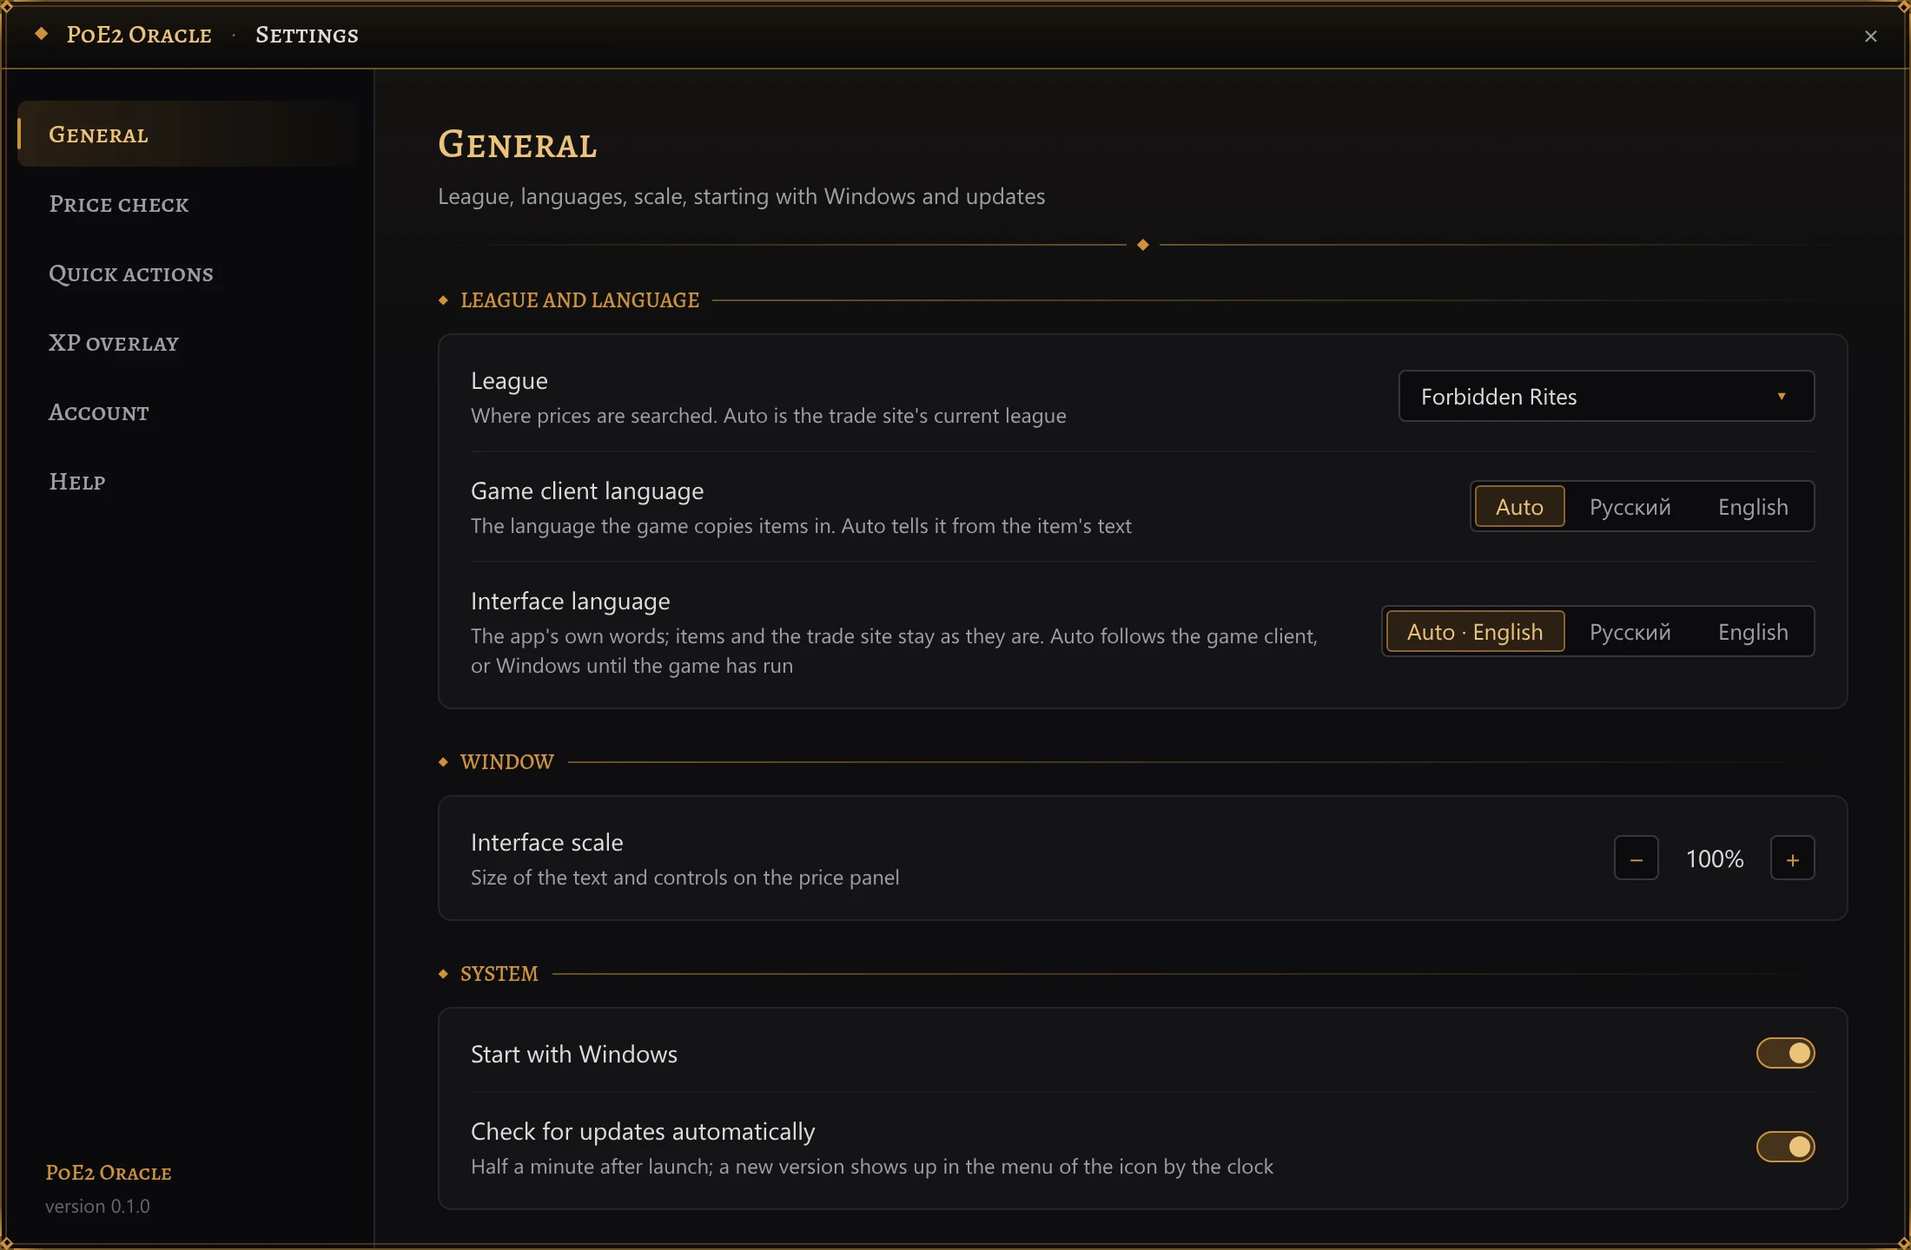
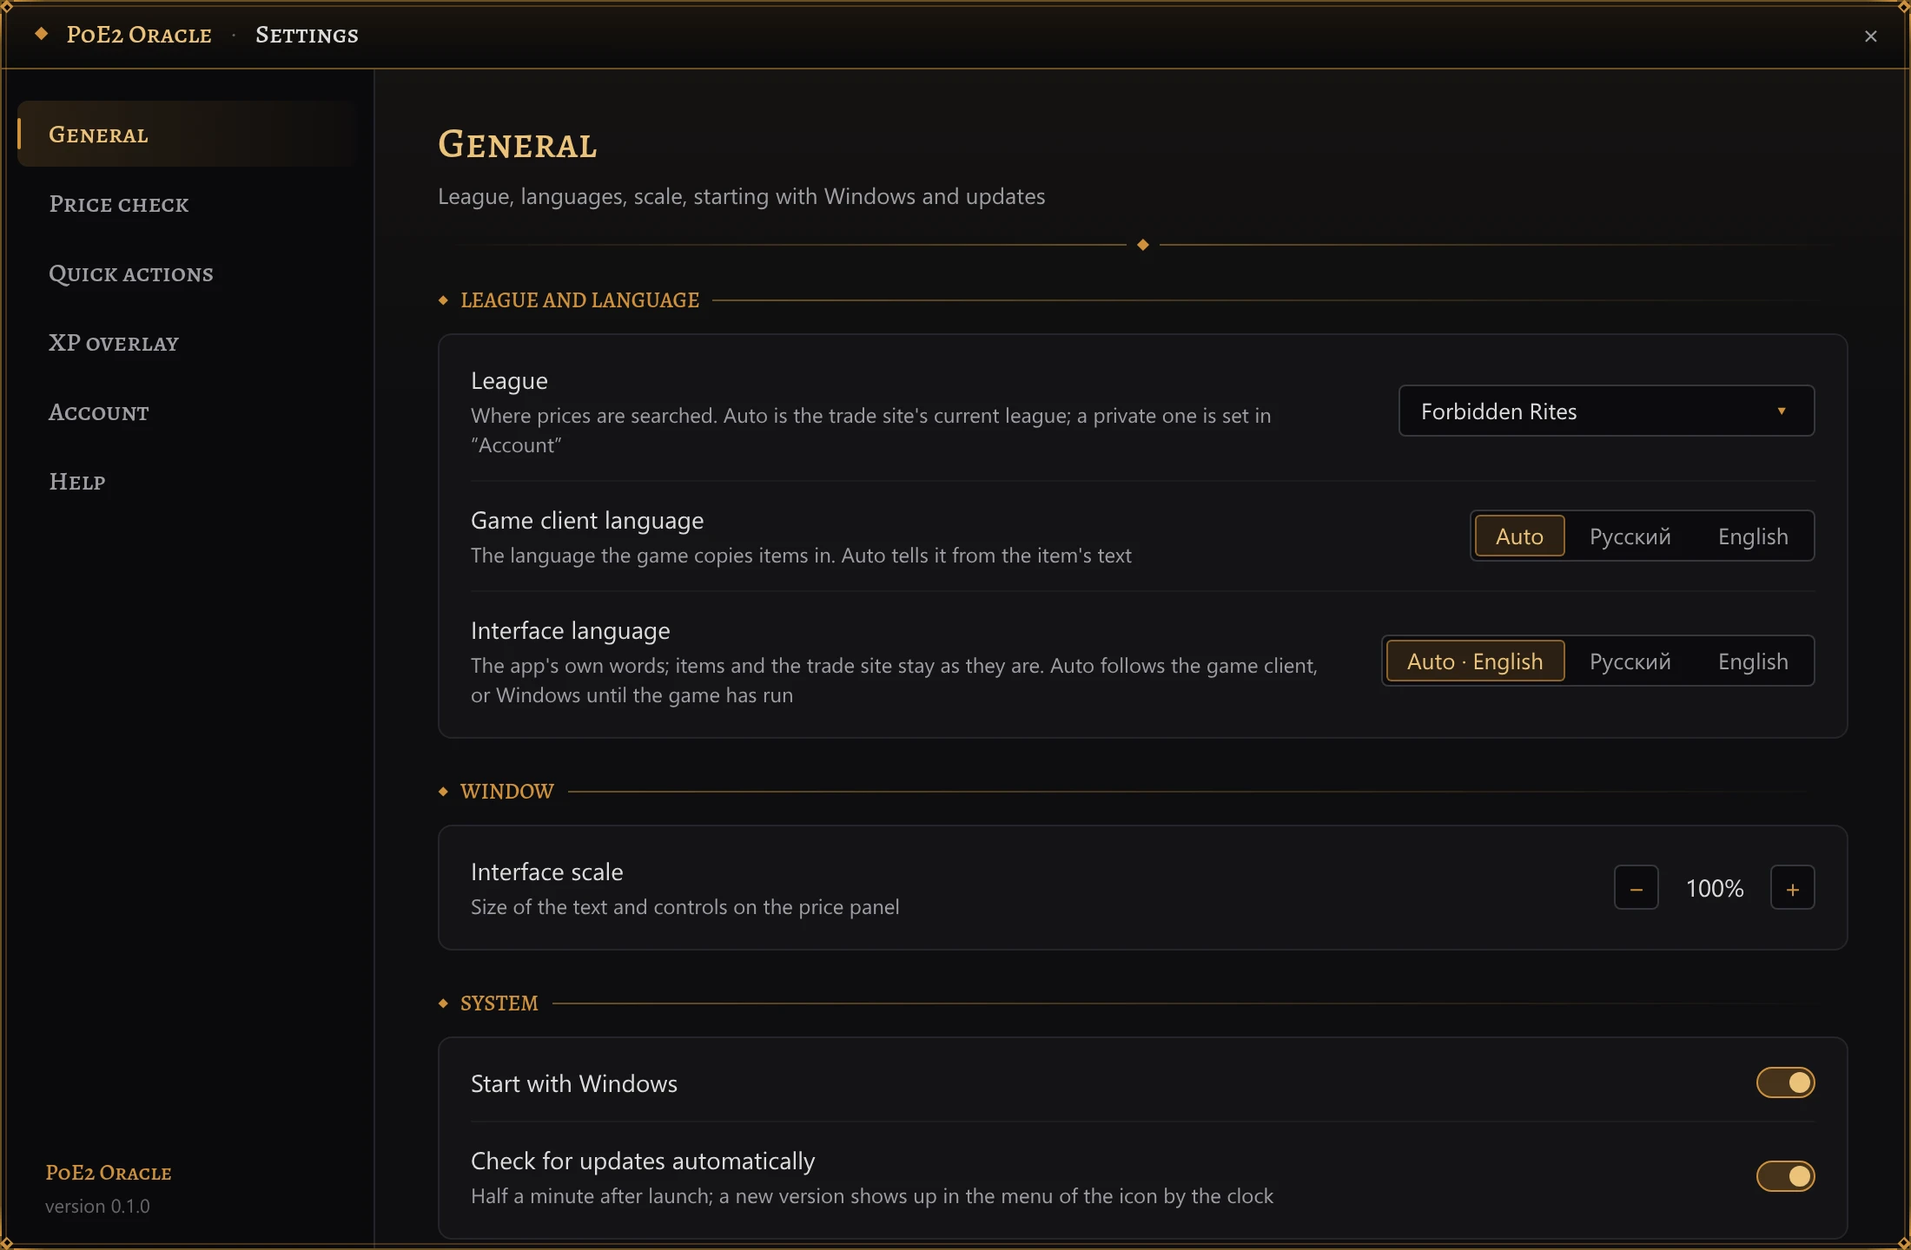
The league menus keep the private league after another pick
This morning the owner went from his private league to Forbidden Rites and back twice. The menus
offered a typed league only while it was the one searched, so going back meant opening the
settings and typing 'HC FRites League by Cardiff (PL86503)' again (16 seconds at 05:50).

Settings::private_league remembers the private league typed last; a file from before takes it
from its typed league. league_chip::menu offers it, in the panel's league chip and in General,
while another league is searched too: back is one click. The Account field shows the remembered
name and acts only on an edit: a new name is remembered and searched, an empty box forgets it
(and goes back to Auto if it was searched); a pick from General's menu drops text typed there
and not taken. Its note says so, and General's league note says where a private league is set
(the drawn settings picture follows). Guide (EN/RU) updated.

diff --git a/crates/poe2-oracle/src/league_chip.rs b/crates/poe2-oracle/src/league_chip.rs
@@ -29,11 +29,13 @@ pub fn chip_label(choice: &LeagueChoice, league: &str, names: &[League]) -> Stri
 }
 
 /// The menu's choices, each with its label, as the settings window offers them: «Авто · » with the
-/// current league, every league `listed` (the trade site's ids, current first), then `current`
-/// itself when it is neither -- a picked league the site no longer lists, or a typed one. Leagues
-/// are named in `names`, as on the chip.
+/// current league, every league `listed` (the trade site's ids, current first), a picked league
+/// the site no longer lists while it's `current`, then the private league `private` -- the one
+/// typed in last, still on offer while another league is searched (and a typed one `current`
+/// names, should the two differ). Leagues are named in `names`, as on the chip.
 pub fn menu(
     current: &LeagueChoice,
+    private: &str,
     listed: &[String],
     names: &[League],
 ) -> Vec<(LeagueChoice, String)> {
@@ -41,14 +43,23 @@ pub fn menu(
         Some(id) => tr!("Auto · {league}", league = league_name(id, names)),
         None => tr!("Auto").to_owned(),
     };
-    let unlisted = match current {
+    let ended = match current {
         LeagueChoice::Named(id) if !listed.contains(id) => Some((current.clone(), id.clone())),
-        LeagueChoice::Custom(name) => Some((
-            current.clone(),
-            tr!("Private league · {league}", league = name),
-        )),
-        LeagueChoice::Auto | LeagueChoice::Named(_) => None,
+        LeagueChoice::Auto | LeagueChoice::Named(_) | LeagueChoice::Custom(_) => None,
     };
+    let typed = match current {
+        LeagueChoice::Custom(name) if name != private => Some(name.as_str()),
+        LeagueChoice::Auto | LeagueChoice::Named(_) | LeagueChoice::Custom(_) => None,
+    };
+    let privates = typed
+        .into_iter()
+        .chain(Some(private).filter(|name| !name.is_empty()))
+        .map(|name| {
+            (
+                LeagueChoice::Custom(name.to_owned()),
+                tr!("Private league · {league}", league = name),
+            )
+        });
     std::iter::once((LeagueChoice::Auto, auto))
         .chain(listed.iter().map(|id| {
             (
@@ -56,7 +67,8 @@ pub fn menu(
                 league_name(id, names).to_owned(),
             )
         }))
-        .chain(unlisted)
+        .chain(ended)
+        .chain(privates)
         .collect()
 }
 
@@ -182,7 +194,7 @@ mod tests {
         let labels = |choices: Vec<(LeagueChoice, String)>| -> Vec<String> {
             choices.into_iter().map(|(_, label)| label).collect()
         };
-        let choices = menu(&named("Standard"), &listed(), &russian());
+        let choices = menu(&named("Standard"), "", &listed(), &russian());
         assert_eq!(
             choices.iter().map(|(choice, _)| choice).collect::<Vec<_>>(),
             [
@@ -204,7 +216,7 @@ mod tests {
             ]
         );
         assert_eq!(
-            labels(menu(&LeagueChoice::Auto, &listed(), &international())),
+            labels(menu(&LeagueChoice::Auto, "", &listed(), &international())),
             [
                 "Авто · Forbidden Rites",
                 "Forbidden Rites",
@@ -216,30 +228,33 @@ mod tests {
     }
 
     #[test]
-    fn the_menu_keeps_a_choice_the_site_does_not_list() {
-        // A typed private league is offered while it is the choice -- the only place its name is
-        // kept.
-        let typed = LeagueChoice::Custom("My League (PL12345)".to_owned());
+    fn the_menu_keeps_choices_the_site_does_not_list() {
+        // The private league typed last is offered while it's searched, and after the player
+        // picked another league: switching back is one click.
+        let name = "My League (PL12345)";
+        let typed = LeagueChoice::Custom(name.to_owned());
+        let offered = Some(&(typed.clone(), "Своя лига · My League (PL12345)".to_owned()));
+        assert_eq!(menu(&typed, name, &listed(), &russian()).last(), offered);
+        let aldur = named("Runes of Aldur");
+        assert_eq!(menu(&aldur, name, &listed(), &russian()).last(), offered);
         assert_eq!(
-            menu(&typed, &listed(), &russian()).last(),
-            Some(&(typed.clone(), "Своя лига · My League (PL12345)".to_owned()))
+            menu(&aldur, name, &listed(), &russian()).len(),
+            listed().len() + 2
         );
         assert!(
-            !menu(&LeagueChoice::Auto, &listed(), &russian())
+            !menu(&LeagueChoice::Auto, "", &listed(), &russian())
                 .iter()
                 .any(|(choice, _)| matches!(choice, LeagueChoice::Custom(_))),
             "no typed league to offer"
         );
-        // A picked league that has ended stays on offer, by its id.
+        // A picked league that has ended stays on offer, by its id, before the private one.
         let ended = named("Dawn of the Hunt");
+        let choices = menu(&ended, name, &listed(), &russian());
         assert_eq!(
-            menu(&ended, &listed(), &russian()).last(),
-            Some(&(ended.clone(), "Dawn of the Hunt".to_owned()))
+            choices[choices.len() - 2],
+            (ended.clone(), "Dawn of the Hunt".to_owned())
         );
-        assert_eq!(
-            menu(&ended, &listed(), &russian()).len(),
-            listed().len() + 2
-        );
+        assert_eq!(choices.last(), offered);
     }
 
     #[test]
@@ -250,7 +265,7 @@ mod tests {
                 "Auto · Forbidden Rites"
             );
             let typed = LeagueChoice::Custom("My League (PL12345)".to_owned());
-            let labels: Vec<String> = menu(&typed, &listed(), &international())
+            let labels: Vec<String> = menu(&typed, "", &listed(), &international())
                 .into_iter()
                 .map(|(_, label)| label)
                 .collect();
@@ -259,7 +274,7 @@ mod tests {
                 labels.last().unwrap(),
                 "Private league · My League (PL12345)"
             );
-            assert_eq!(menu(&typed, &[], &[])[0].1, "Auto");
+            assert_eq!(menu(&typed, "", &[], &[])[0].1, "Auto");
         });
     }
 

diff --git a/crates/poe2-oracle/src/ui/settings_view.rs b/crates/poe2-oracle/src/ui/settings_view.rs
@@ -252,7 +252,7 @@ impl SettingsView {
         window: &mut Window,
         cx: &mut Context<Self>,
     ) -> Self {
-        let (actions, league) = {
+        let (actions, private_league) = {
             let settings = &app.read(cx).settings;
             (
                 settings
@@ -260,17 +260,13 @@ impl SettingsView {
                     .iter()
                     .map(ActionDraft::saved)
                     .collect::<Vec<_>>(),
-                settings.league.clone(),
+                settings.private_league.clone(),
             )
         };
         let actions = actions
             .into_iter()
             .map(|draft| Self::action_row(draft, window, cx))
             .collect();
-        let private_league = match league {
-            LeagueChoice::Custom(name) => name,
-            LeagueChoice::Auto | LeagueChoice::Named(_) => String::new(),
-        };
         // A league name as the trade site writes one: the same in every interface language.
         let league_field =
             cx.new(|cx| TextField::new(private_league, || "My League (PL12345)", window, cx));
@@ -472,29 +468,36 @@ impl SettingsView {
         cx.notify();
     }
 
-    /// Takes the private league's field as it reads: a name makes it the league searched;
-    /// emptied, searches go back to «Авто» -- when it was the league searched.
+    /// Takes the private league's field as it reads, once the player changed it: a name is
+    /// remembered and becomes the league searched; emptied, the private league is forgotten and
+    /// searches go back to «Авто» -- when it was the league searched.
     fn apply_private_league(&mut self, cx: &mut Context<Self>) {
         let typed = self.league_field.read(cx).text().trim().to_owned();
-        let league = match (typed.is_empty(), &self.app.read(cx).settings.league) {
-            (false, _) => LeagueChoice::Custom(typed),
-            (true, LeagueChoice::Custom(_)) => LeagueChoice::Auto,
-            (true, LeagueChoice::Auto | LeagueChoice::Named(_)) => return,
-        };
-        self.change(cx, |settings| settings.league = league);
+        let settings = &self.app.read(cx).settings;
+        if typed == settings.private_league {
+            return;
+        }
+        let searched = matches!(settings.league, LeagueChoice::Custom(_));
+        self.change(cx, |settings| {
+            if typed.is_empty() {
+                if searched {
+                    settings.league = LeagueChoice::Auto;
+                }
+            } else {
+                settings.league = LeagueChoice::Custom(typed.clone());
+            }
+            settings.private_league = typed;
+        });
     }
 
-    /// A league picked in Общие's menu. The private league's field shows the league searched
-    /// only while it is the private one.
+    /// A league picked in Общие's menu. The private league's field goes back to the name
+    /// remembered, dropping what was typed there and not taken yet: the pick is what counts.
     fn choose_league(&mut self, choice: LeagueChoice, cx: &mut Context<Self>) {
         self.league_menu = false;
-        let private_league = match &choice {
-            LeagueChoice::Custom(name) => name.clone(),
-            LeagueChoice::Auto | LeagueChoice::Named(_) => String::new(),
-        };
+        self.change(cx, |settings| settings.league = choice);
+        let private_league = self.app.read(cx).settings.private_league.clone();
         self.league_field
             .update(cx, |field, cx| field.set_text(private_league, cx));
-        self.change(cx, |settings| settings.league = choice);
         cx.notify();
     }
 
@@ -1282,7 +1285,12 @@ impl SettingsView {
     fn render_league(&self, settings: &Settings, cx: &Context<Self>) -> AnyElement {
         let app = self.app.read(cx);
         let listed = app.leagues();
-        let options = league_chip::menu(&settings.league, listed, app.league_names());
+        let options = league_chip::menu(
+            &settings.league,
+            &settings.private_league,
+            listed,
+            app.league_names(),
+        );
         let picked = options
             .iter()
             .position(|(choice, _)| *choice == settings.league)
@@ -1733,8 +1741,9 @@ impl SettingsView {
                     [
                         Some(note(
                             tr!(
-                                "As the trade site writes it, brackets included — searches go \
-                                 there. An empty box brings back “Auto”"
+                                "As the trade site writes it, brackets included. Enter makes it the \
+                                 league searched, and the league menus keep it; an empty box \
+                                 forgets it"
                             ),
                             TEXT_DIM,
                         )),

diff --git a/crates/poe2-oracle/src/settings.rs b/crates/poe2-oracle/src/settings.rs
@@ -49,6 +49,10 @@ pub struct Settings {
     /// Which league searches run in.
     #[serde(deserialize_with = "or_default")]
     pub league: LeagueChoice,
+    /// The private league the player typed in last (`My League (PL12345)`), kept while they
+    /// search another league so the league menus go on offering it; empty for none. A typed
+    /// league searched is always this one.
+    pub private_league: String,
     /// The game client's language: the language copied items arrive in.
     #[serde(deserialize_with = "or_default")]
     pub client_language: ClientLanguage,
@@ -102,6 +106,7 @@ impl Default for Settings {
         Settings {
             version: SETTINGS_VERSION,
             league: LeagueChoice::default(),
+            private_league: String::new(),
             client_language: ClientLanguage::default(),
             interface_language: InterfaceLanguage::default(),
             autostart: false,
@@ -139,10 +144,15 @@ impl Settings {
             self.listing_status = ListingStatusChoice::Securable;
         }
         self.version = SETTINGS_VERSION;
-        // A typed league as typed, minus the spaces around it; nothing typed is no choice.
+        // A typed league as typed, minus the spaces around it; nothing typed is no choice. The
+        // one searched is the one remembered -- as in a file from before it was remembered.
+        self.private_league = self.private_league.trim().to_owned();
         self.league = match std::mem::take(&mut self.league) {
             LeagueChoice::Custom(name) if name.trim().is_empty() => LeagueChoice::Auto,
-            LeagueChoice::Custom(name) => LeagueChoice::Custom(name.trim().to_owned()),
+            LeagueChoice::Custom(name) => {
+                self.private_league = name.trim().to_owned();
+                LeagueChoice::Custom(self.private_league.clone())
+            }
             choice => choice,
         };
         self.ui_scale = self.ui_scale.clamp(MIN_UI_SCALE, MAX_UI_SCALE);
@@ -798,14 +808,27 @@ mod tests {
     }
 
     #[test]
-    fn a_typed_league_loads_trimmed_and_an_empty_one_as_auto() {
+    fn a_typed_league_loads_trimmed_and_remembered_and_an_empty_one_as_auto() {
         let dir = TempDir::new();
         let path = dir.settings_file();
         write_file(&path, r#"{"league": {"custom": " My League (PL12345) "}}"#);
+        let loaded = load_from(&path);
         assert_eq!(
-            load_from(&path).league,
+            loaded.league,
             LeagueChoice::Custom("My League (PL12345)".to_owned())
         );
+        assert_eq!(loaded.private_league, "My League (PL12345)");
+        // Searching a public league keeps the private one on offer.
+        write_file(
+            &path,
+            r#"{"league": {"named": "Forbidden Rites"}, "private_league": " My League (PL12345)"}"#,
+        );
+        let loaded = load_from(&path);
+        assert_eq!(
+            loaded.league,
+            LeagueChoice::Named("Forbidden Rites".to_owned())
+        );
+        assert_eq!(loaded.private_league, "My League (PL12345)");
         write_file(&path, r#"{"league": {"custom": "  "}}"#);
         assert_eq!(load_from(&path).league, LeagueChoice::Auto);
     }

diff --git a/crates/poe2-oracle/src/ui/panel/title_bar.rs b/crates/poe2-oracle/src/ui/panel/title_bar.rs
@@ -105,6 +105,7 @@ fn render_league_select(
         .when(state.league_menu, |this| {
             let choices = league_chip::menu(
                 &state.settings.league,
+                &state.settings.private_league,
                 state.leagues(),
                 state.league_names(),
             );

diff --git a/docs/guide/src/ru/settings.md b/docs/guide/src/ru/settings.md
@@ -154,10 +154,12 @@
   Microsoft Edge WebView2 Runtime; если его нет, под строкой будет ссылка
   «Скачать с сайта Microsoft».
 - **Приватная лига.** «Название лиги» — как на сайте торговли, со скобками: `My League (PL12345)`.
-  Когда вы нажимаете <kbd>Enter</kbd> или уходите из поля, поиск переходит в эту лигу; в разделе
-  «Общие» она появится как «Своя лига · *название*». Пустое поле возвращает лигу «Авто». Без входа
-  сайт не отвечает на поиск в приватной лиге — строка об этом предупредит. Цены биржи берутся из
-  публичной лиги, на которой сделана ваша: см. [В приватной лиге](price-check.md#в-приватной-лиге).
+  Когда вы нажимаете <kbd>Enter</kbd> или уходите из поля, поиск переходит в эту лигу, а меню лиг —
+  в разделе «Общие» и на панели цены — с этих пор предлагает её как «Своя лига · *название*», даже
+  пока вы ищете в другой лиге: вернуться в неё — один щелчок. Пустое поле её забывает и возвращает
+  лигу «Авто», если поиск шёл в ней. Без входа сайт не отвечает на поиск в приватной лиге — строка
+  об этом предупредит. Цены биржи берутся из публичной лиги, на которой сделана ваша: см.
+  [В приватной лиге](price-check.md#в-приватной-лиге).
 
 ## Помощь
 

diff --git a/docs/guide/src/en/settings.md b/docs/guide/src/en/settings.md
@@ -164,7 +164,9 @@ Section **Account**. Signing in to pathofexile.com is needed to search private l
   **Download from Microsoft**.
 - **Private league.** Row **League name**: the name as the trade site writes it, brackets included:
   `My League (PL12345)`. When you press <kbd>Enter</kbd> or leave the box, searches move to that
-  league, and **General** lists it as **Private league · *name***. An empty box brings back **Auto**.
+  league, and from then on the league menus, in **General** and on the price panel, list it as
+  **Private league · *name***, even while you search another league: switching back is one click.
+  An empty box forgets it, and brings back **Auto** if it was the league searched.
   The site does not answer searches in a private league without a sign-in, and the row warns about
   it. Exchange prices come from the public league yours is made from: see
   [In a private league](price-check.md#in-a-private-league).
